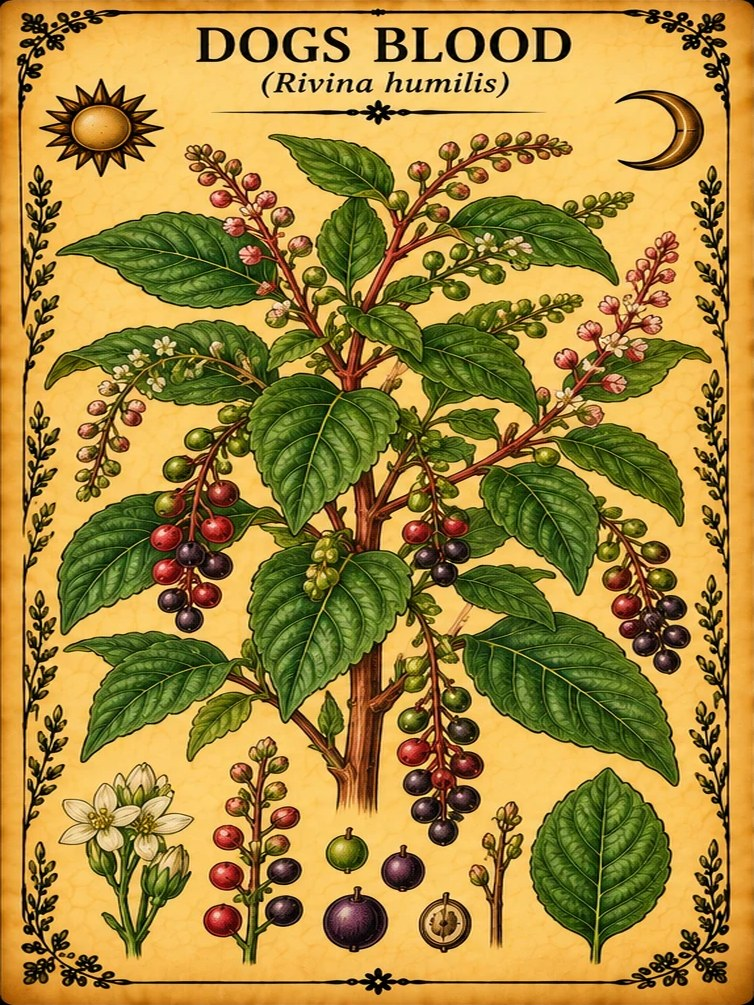
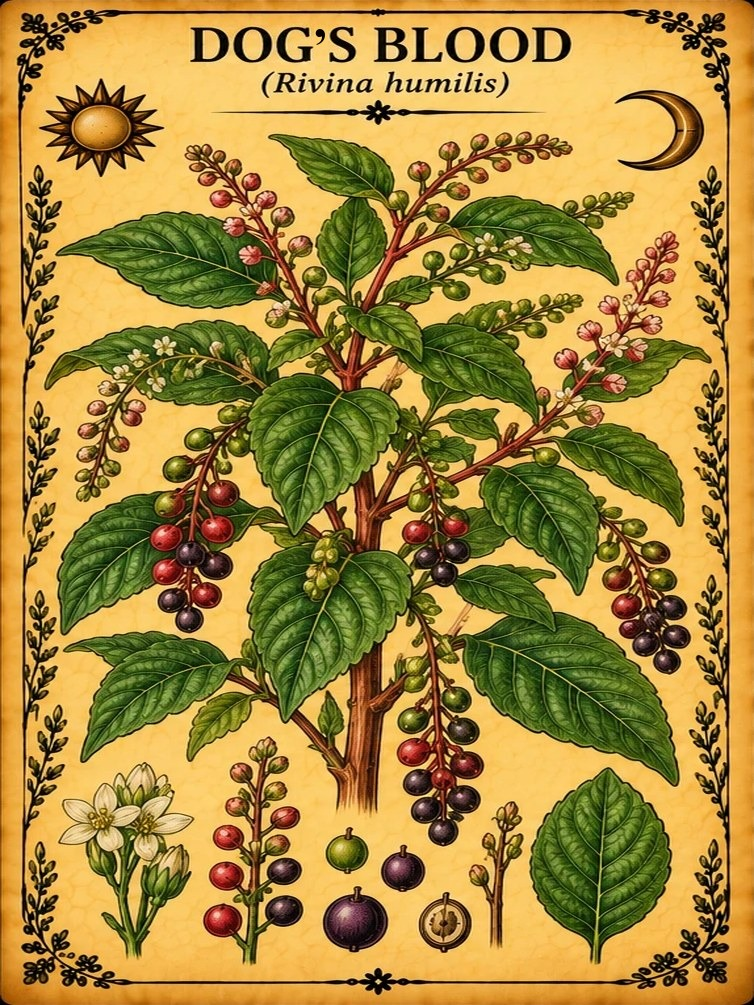
Add apostrophe to Dog's Blood
Renames the herb and adds the apostrophe to its card title; 'Dogs Blood'
stays as a search name.

Changed region(s): [[0.244, 0.0, 0.4881, 0.0617]]

diff --git a/prisma/populate-dogs-blood.ts b/prisma/populate-dogs-blood.ts
@@ -1,13 +1,13 @@
 import { run } from "./lib/populate-herb";
 
-// Dogs Blood (Rivina humilis, pigeon berry or blood berry), from the Natural
+// Dog's Blood (Rivina humilis, pigeon berry or blood berry), from the Natural
 // History Museum of Jamaica's common name database, a 2023 study of its
 // nutrients and antioxidants (Riya et al., ACS Omega), a rat study of blood
 // sugar (C R et al. 2023) and a 2026 study of leafy vegetables eaten in French
 // Guiana and Suriname (Tareau et al.). No studies in people were found.
 
 run({
-  name: "Dogs Blood",
+  name: "Dog's Blood",
   profile: {
     family: "Petiveriaceae",
     genus: "Rivina",
@@ -61,7 +61,7 @@ run({
     },
   },
   synonyms: [
-    { name: "Dog's Blood", type: "COMMON_NAME" },
+    { name: "Dogs Blood", type: "COMMON_NAME" },
     { name: "Dogberry", type: "REGIONAL_NAME", region: "Jamaica" },
     { name: "Pigeon Berry", type: "COMMON_NAME" },
     { name: "Blood Berry", type: "COMMON_NAME" },

diff --git a/prisma/seed.ts b/prisma/seed.ts
@@ -1158,7 +1158,7 @@ const herbs = [
     imageUrl: "/herbs/vervine.jpg",
   },
   {
-    name: "Dogs Blood",
+    name: "Dog's Blood",
     scientificName: "Rivina humilis",
     category: "Culinary",
     summary: "A small plant with red berries, known in Jamaica as dogberry and elsewhere as pigeon berry or blood berry. Its leaves are cooked as a leafy green; research so far is in the lab and in rats.",
